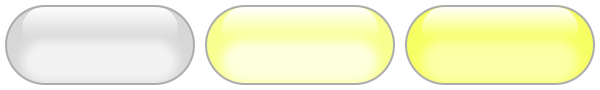
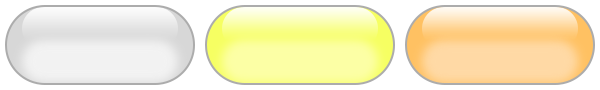
Bago To

diff --git a/client/assets/js/scenea.js b/client/assets/js/scenea.js
@@ -316,9 +316,9 @@ class SceneA extends Phaser.Scene {
 
         this.controlBtnsCont = this.add.container ( 1920, 0).setDepth (9999);
 
-        const rct = this.add.image ( 395, 335, 'controlsBg' ).setInteractive ();
+        const rct = this.add.image ( 395, 355, 'controlsBg' ).setInteractive ();
 
-        const rcta = this.add.rectangle ( 26, 335, 52, 380 ).setInteractive ();
+        const rcta = this.add.rectangle ( 33, 355, 66, 380 ).setInteractive ();
 
         rcta.on('pointerup', () => {
             this.playSound ('clicka');
@@ -330,7 +330,7 @@ class SceneA extends Phaser.Scene {
         
         //..
 
-        const btnsTop = 230, btnsLeft = 180;
+        const btnsTop = 250, btnsLeft = 180;
 
         const btnArr = [
 
@@ -492,7 +492,7 @@ class SceneA extends Phaser.Scene {
             
         }
 
-        const btnsTop = 230, btnsLeft = 180;
+        const btnsTop = 250, btnsLeft = 180;
 
         const mainBtnArr = [
             { 
@@ -607,7 +607,7 @@ class SceneA extends Phaser.Scene {
                 const piece = new GamePiece ( this, 960, 540, w, h, plyr + counter, plyr, clr, base, post, rnk, rnkName, flipped, activated );
 
                 piece.on('pointerdown', () => {
-                    this.playSound ('clicka');
+                    this.playSound ('clickb');
                 });
                 piece.on('pointerup', () => {
                     this.pieceIsClicked ( piece );
@@ -706,7 +706,7 @@ class SceneA extends Phaser.Scene {
                     const blinka = new MyBlinkers ( this, xp, yp, 190, 114, 'blink'+i, i+45, 4, true );
 
                     blinka.on ('pointerdown', () => {
-                        this.playSound ('clicka');
+                        this.playSound ('clickb');
                     });
 
                     blinka.on ('pointerup', () => {
@@ -738,7 +738,7 @@ class SceneA extends Phaser.Scene {
                 const blinkb = new MyBlinkers ( this, xp, yp, 190, 114, 'blink'+i, adjArr[i].post, adjArr[i].dir, activated );
 
                 blinkb.on ('pointerdown', () => {
-                    this.playSound ('clicka');
+                    this.playSound ('clickb');
                 });
 
                 blinkb.on ('pointerup', () => {
@@ -1118,7 +1118,7 @@ class SceneA extends Phaser.Scene {
 
         const startX = ( piece.player == 'self' ) ? 363.75 : 1068.75,
 
-              startY = 450;
+              startY = 400;
         
         const ix = Math.floor ( this.capturedCounter [ piece.player ]/4 ),
 
@@ -1184,12 +1184,12 @@ class SceneA extends Phaser.Scene {
 
         this.createBlinkers ( toMove.post, resident, false );
 
-        this.playSound ('clicka');
+        this.playSound ('clickb');
 
 
         this.time.delayedCall ( 500, function () {
 
-            this.playSound ('clicka');
+            this.playSound ('clickb');
 
             this.removeBlinkers ();
             
@@ -1331,9 +1331,10 @@ class SceneA extends Phaser.Scene {
             
             this.createGamePieces ('self', this.players['self'].chip, true, true);
 
-            this.showControls ();
-
         }, [], this);
+
+        this.time.delayedCall ( 1200, this.showControls, [], this );
+
       
     }
 
@@ -1699,7 +1700,7 @@ class SceneA extends Phaser.Scene {
 
         for ( var i = 0; i < 3; i++ ) {
 
-            this.controlBtnsCont.getByName ('mainBtn' + i ).removeInteractive ();
+            this.controlBtnsCont.getByName ('mainBtn' + i ).setBtnEnabled (false);
 
         }
         this.time.delayedCall ( 300, () => {
@@ -1807,9 +1808,9 @@ class SceneA extends Phaser.Scene {
 
         this.add.tween ({
             targets : this.promptCont.last,
-            y : 540,
+            y : 590,
             duration : 400,
-            easeParams : [ 0.5, 1],
+            easeParams : [ 1.1, 0.6 ],
             ease : 'Elastic',
             delay : 100
         });
@@ -1822,7 +1823,7 @@ class SceneA extends Phaser.Scene {
         const btnArr = [
 
             { 
-                'txt' : 'Confirm', 
+                'txt' : 'Proceed', 
                 'func' : () => {
 
                     this.removePrompt()
@@ -1844,7 +1845,7 @@ class SceneA extends Phaser.Scene {
         const btnArr = [
 
             { 
-                'txt' : 'Confirm', 
+                'txt' : 'Proceed', 
                 'func' : () => {
 
                     this.removePrompt()
@@ -1857,7 +1858,7 @@ class SceneA extends Phaser.Scene {
 
         ];
 
-        this.showPrompt ( 'Are you sure to offer a draw?', 34, -30, false, btnArr );
+        this.showPrompt ( 'Are you sure you want to offer a draw?', 30, -30, false, btnArr );
 
     }
 
@@ -1866,7 +1867,7 @@ class SceneA extends Phaser.Scene {
         const btnArr = [
 
             { 
-                'txt' : 'Confirm', 
+                'txt' : 'Proceed', 
                 'func' : () => {
 
                     this.removePrompt()

diff --git a/client/assets/js/buttons.js b/client/assets/js/buttons.js
@@ -68,19 +68,19 @@ class MyButton extends Phaser.GameObjects.Container {
 
             this.removeInteractive ();
 
-            this.alpha = 0.8;
+            //this.alpha = 0.9;
 
             if ( this.bg == '') {
                 this.first.setFillStyle ( 0xd3d3d3, 1 );
             }else {
-                this.first.setFrame ( 0 );
+                this.first.setFrame ( 3 );
             }
 
         }else {
 
             this.setInteractive ();
 
-            this.alpha = 1;
+            //this.alpha = 1;
 
             if ( this.bg == '') {
                 this.first.setFillStyle ( 0xffffff, 1 );
